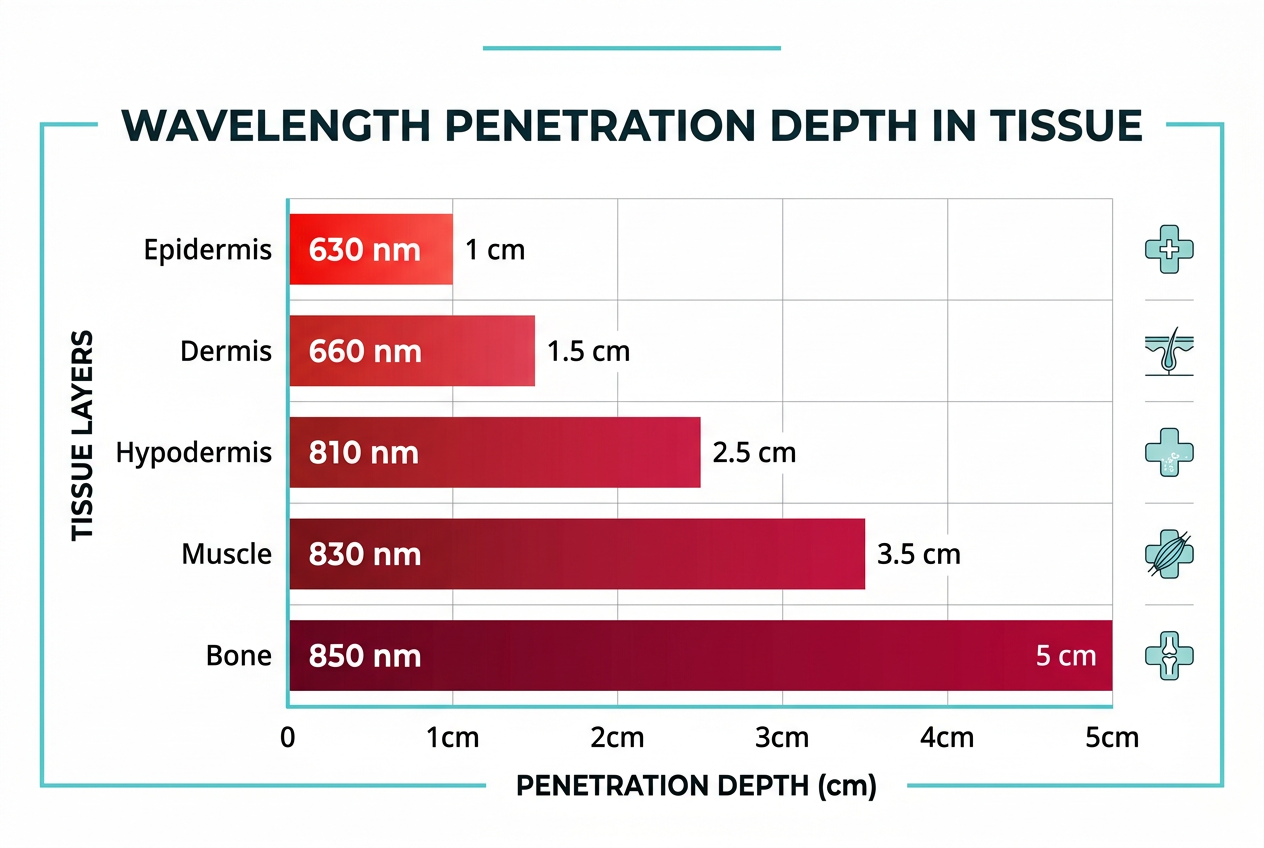
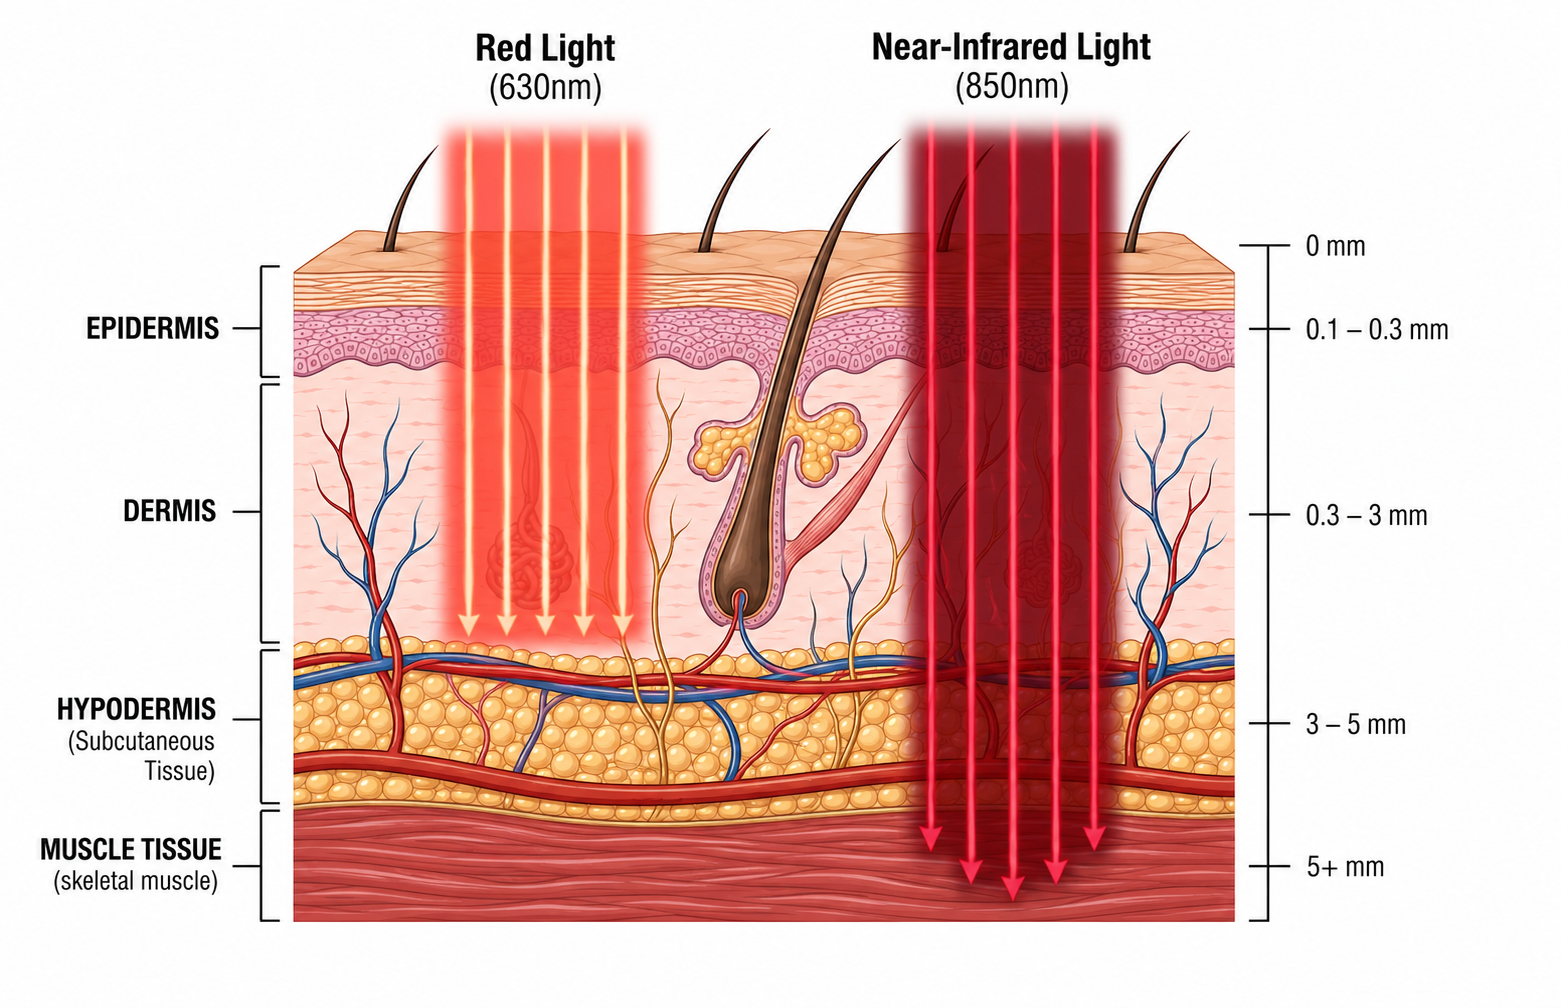
V21: Fix all image paths for GitHub Pages, copy assets to root, swap wavelength diagram

diff --git a/src/sections/HeroSection.tsx b/src/sections/HeroSection.tsx
@@ -1,5 +1,6 @@
 import { useEffect, useRef } from 'react';
 import { ChevronDown } from 'lucide-react';
+import heroImg from '/hero-red-led.jpg';
 
 const benefitPills = ['Anti-Aging', 'Pain Relief'];
 
@@ -48,7 +49,7 @@ export default function HeroSection() {
       id="hero"
       className="relative min-h-[100dvh] flex flex-col items-center justify-center overflow-hidden"
       style={{
-        backgroundImage: 'url(/hero-red-led.jpg)',
+        backgroundImage: `url(${heroImg})`,
         backgroundSize: 'cover',
         backgroundPosition: 'center',
         paddingTop: '100px',
@@ -70,7 +71,7 @@ export default function HeroSection() {
         {/* Logo */}
         <div className="hero-logo mb-6">
           <img
-            src="/zl-logo-hero.png"
+            src="./zl-logo-hero.png"
             alt="Zero Lines"
             className="h-20 sm:h-24 w-auto"
             style={{ filter: 'drop-shadow(0 0 24px rgba(255,255,255,0.2)) brightness(1.15)' }}
@@ -123,11 +124,11 @@ export default function HeroSection() {
           className="hero-trust mt-12 flex flex-wrap items-center justify-center gap-5 sm:gap-7 px-6 py-4 rounded-full"
           style={{ background: 'rgba(255, 255, 255, 0.06)', border: '1px solid rgba(255,255,255,0.1)' }}
         >
-          <img src="/badges/fda-cleared.png" alt="FDA" className="h-8 sm:h-10 w-auto opacity-70" />
-          <img src="/badges/nasa-logo.png" alt="NASA" className="h-8 sm:h-10 w-auto opacity-70" />
-          <img src="/badges/nobel-medal.png" alt="Nobel" className="h-8 sm:h-10 w-auto opacity-70" />
-          <img src="/badges/patented-approved.png" alt="Patented" className="h-8 sm:h-10 w-auto opacity-70" />
-          <img src="/badges/clinically-tested.png" alt="Clinically Tested" className="h-8 sm:h-10 w-auto opacity-70" />
+          <img src="./badges/fda-cleared.png" alt="FDA" className="h-8 sm:h-10 w-auto opacity-70" />
+          <img src="./badges/nasa-logo.png" alt="NASA" className="h-8 sm:h-10 w-auto opacity-70" />
+          <img src="./badges/nobel-medal.png" alt="Nobel" className="h-8 sm:h-10 w-auto opacity-70" />
+          <img src="./badges/patented-approved.png" alt="Patented" className="h-8 sm:h-10 w-auto opacity-70" />
+          <img src="./badges/clinically-tested.png" alt="Clinically Tested" className="h-8 sm:h-10 w-auto opacity-70" />
         </div>
 
         {/* Scroll indicator */}

diff --git a/index.html b/index.html
@@ -4,21 +4,13 @@
     <meta charset="UTF-8" />
     <meta name="viewport" content="width=device-width, initial-scale=1.0" />
     <title>Zero Lines — LED Light Therapy Science</title>
-    <script type="module" crossorigin src="./dist/assets/index-49GDp91M.js"></script>
+    <script type="module" crossorigin src="./dist/assets/index-t23lzatK.js"></script>
     <link rel="stylesheet" crossorigin href="./dist/assets/index-DXcwN8vf.css">
   <style>
-    /* FAQ mobile padding: ensure visible space on left/right edges */
     @media (max-width: 639px) {
-      #faq .max-w-\[760px\] {
-        padding-left: 24px !important;
-        padding-right: 24px !important;
-      }
+      #faq .max-w-\[760px\] { padding-left: 24px !important; padding-right: 24px !important; }
     }
-    /* Safety: hide any cost section that appears outside correct position */
-    footer ~ #cost-comparison,
-    footer ~ div[id*="cost"] {
-      display: none !important;
-    }
+    footer ~ #cost-comparison, footer ~ div[id*="cost"] { display: none !important; }
   </style>
   </head>
   <body>

diff --git a/src/sections/ScienceCredentialsSection.tsx b/src/sections/ScienceCredentialsSection.tsx
@@ -98,7 +98,7 @@ export default function ScienceCredentialsSection() {
           <div className="flex lg:grid lg:grid-cols-3 gap-8 overflow-x-auto snap-x snap-mandatory pb-6 lg:pb-0 px-5 lg:px-0 scrollbar-hide">
             {/* NASA Column */}
             <div className="flex-shrink-0 w-[310px] lg:w-auto snap-center text-center p-10 rounded-3xl border border-white/10 bg-white/[0.03] flex flex-col">
-              <img src="/badges/nasa-logo.png" alt="NASA" className="h-20 w-auto mx-auto" />
+              <img src="./badges/nasa-logo.png" alt="NASA" className="h-20 w-auto mx-auto" />
               <h3 className="text-xl font-semibold text-white mt-6">Born from Space</h3>
               <p className="text-sm text-white/40 mt-3 leading-relaxed flex-grow">
                 NASA funded LED research in 1995 to heal astronaut wounds in space.
@@ -127,7 +127,7 @@ export default function ScienceCredentialsSection() {
 
             {/* Nobel Column */}
             <div className="flex-shrink-0 w-[310px] lg:w-auto snap-center text-center p-10 rounded-3xl border border-white/10 bg-white/[0.03] flex flex-col">
-              <img src="/badges/nobel-medal.png" alt="Nobel Prize" className="h-24 w-auto mx-auto" />
+              <img src="./badges/nobel-medal.png" alt="Nobel Prize" className="h-24 w-auto mx-auto" />
               <h3 className="text-xl font-semibold text-white mt-6">Nobel Science</h3>
               <p className="text-sm text-white/40 mt-3 leading-relaxed flex-grow">
                 The Nobel Prize discovery of nitric oxide — the molecule LED therapy triggers.
@@ -148,7 +148,7 @@ export default function ScienceCredentialsSection() {
 
             {/* FDA Column */}
             <div className="flex-shrink-0 w-[310px] lg:w-auto snap-center text-center p-10 rounded-3xl border border-white/10 bg-white/[0.03] flex flex-col">
-              <img src="/badges/fda-cleared.png" alt="FDA Cleared" className="h-20 w-auto mx-auto" />
+              <img src="./badges/fda-cleared.png" alt="FDA Cleared" className="h-20 w-auto mx-auto" />
               <h3 className="text-xl font-semibold text-white mt-6">FDA Cleared</h3>
               <p className="text-sm text-white/40 mt-3 leading-relaxed flex-grow">
                 Officially classified as a Class 2 Medical Device — reviewed for safety and efficacy.
@@ -166,9 +166,9 @@ export default function ScienceCredentialsSection() {
                 Learn More <ChevronDown className="w-3.5 h-3.5" />
               </button>
               <div className="flex items-center justify-center gap-3 mt-3">
-                <img src="/badges/patented-approved.png" alt="Patented" className="h-10 w-auto opacity-60" />
-                <img src="/badges/clinically-tested.png" alt="Clinically Tested" className="h-10 w-auto opacity-60" />
-                <img src="/badges/ukas-quality.png" alt="UKAS" className="h-10 w-auto opacity-60" />
+                <img src="./badges/patented-approved.png" alt="Patented" className="h-10 w-auto opacity-60" />
+                <img src="./badges/clinically-tested.png" alt="Clinically Tested" className="h-10 w-auto opacity-60" />
+                <img src="./badges/ukas-quality.png" alt="UKAS" className="h-10 w-auto opacity-60" />
               </div>
             </div>
           </div>

diff --git a/src/components/Navbar.tsx b/src/components/Navbar.tsx
@@ -63,7 +63,7 @@ export default function Navbar() {
             }}
           >
             <img
-              src="/zl-logo-nav.png"
+              src="./zl-logo-nav.png"
               alt="Zero Lines"
               className="h-8 w-auto"
             />
@@ -112,7 +112,7 @@ export default function Navbar() {
         >
           {/* Close button */}
           <div className="flex items-center justify-between h-16 px-6">
-            <img src="/zl-logo-hero.png" alt="Zero Lines" className="h-8 w-auto" />
+            <img src="./zl-logo-hero.png" alt="Zero Lines" className="h-8 w-auto" />
             <button
               onClick={() => setMobileOpen(false)}
               className="p-2 -mr-2"
@@ -143,9 +143,9 @@ export default function Navbar() {
           {/* Bottom trust badges */}
           <div className="absolute bottom-8 left-0 right-0 px-8">
             <div className="flex items-center justify-center gap-4 opacity-50">
-              <img src="/badges/fda-cleared.png" alt="FDA" className="h-8 w-auto" />
-              <img src="/badges/nasa-logo.png" alt="NASA" className="h-8 w-auto" />
-              <img src="/badges/nobel-medal.png" alt="Nobel" className="h-8 w-auto" />
+              <img src="./badges/fda-cleared.png" alt="FDA" className="h-8 w-auto" />
+              <img src="./badges/nasa-logo.png" alt="NASA" className="h-8 w-auto" />
+              <img src="./badges/nobel-medal.png" alt="Nobel" className="h-8 w-auto" />
             </div>
           </div>
         </div>

diff --git a/src/sections/CompetitiveFramingSection.tsx b/src/sections/CompetitiveFramingSection.tsx
@@ -86,10 +86,10 @@ export default function CompetitiveFramingSection() {
             Not all LED devices are created equal. Here's what separates medical-grade from consumer-grade.
           </p>
           <div className="reveal flex items-center justify-center gap-4 mt-6">
-            <img src="/badges/fda-cleared.png" alt="FDA Cleared" className="h-12 w-auto opacity-80" />
-            <img src="/badges/patented-approved.png" alt="Patented" className="h-12 w-auto opacity-80" />
-            <img src="/badges/clinically-tested.png" alt="Clinically Tested" className="h-12 w-auto opacity-80" />
-            <img src="/badges/dermatologist-recommended.png" alt="Dermatologist Recommended" className="h-12 w-auto opacity-80" />
+            <img src="./badges/fda-cleared.png" alt="FDA Cleared" className="h-12 w-auto opacity-80" />
+            <img src="./badges/patented-approved.png" alt="Patented" className="h-12 w-auto opacity-80" />
+            <img src="./badges/clinically-tested.png" alt="Clinically Tested" className="h-12 w-auto opacity-80" />
+            <img src="./badges/dermatologist-recommended.png" alt="Dermatologist Recommended" className="h-12 w-auto opacity-80" />
           </div>
         </div>
 

diff --git a/src/sections/FDAMedicalDeviceSection.tsx b/src/sections/FDAMedicalDeviceSection.tsx
@@ -56,10 +56,10 @@ export default function FDAMedicalDeviceSection() {
 
         {/* Certification Badges Row */}
         <div className="reveal flex flex-wrap items-center justify-center gap-6 sm:gap-8 mt-8">
-          <img src="/badges/fda-cleared.png" alt="FDA Cleared" className="h-20 w-auto" />
-          <img src="/badges/patented-approved.png" alt="Patented" className="h-16 w-auto" />
-          <img src="/badges/clinically-tested.png" alt="Clinically Tested" className="h-16 w-auto" />
-          <img src="/badges/ukas-quality.png" alt="UKAS Quality" className="h-16 w-auto" />
+          <img src="./badges/fda-cleared.png" alt="FDA Cleared" className="h-20 w-auto" />
+          <img src="./badges/patented-approved.png" alt="Patented" className="h-16 w-auto" />
+          <img src="./badges/clinically-tested.png" alt="Clinically Tested" className="h-16 w-auto" />
+          <img src="./badges/ukas-quality.png" alt="UKAS Quality" className="h-16 w-auto" />
         </div>
 
         {/* Feature Cards - Mobile: horizontal scroll */}

diff --git a/src/sections/HowItWorksSection.tsx b/src/sections/HowItWorksSection.tsx
@@ -75,8 +75,8 @@ export default function HowItWorksSection() {
 
           {/* Badges - FDA + Clinically Tested */}
           <div className="reveal flex items-center justify-center gap-4 mt-6">
-            <img src="/badges/fda-cleared.png" alt="FDA Cleared" className="h-14 w-auto opacity-80" />
-            <img src="/badges/clinically-tested.png" alt="Clinically Tested" className="h-14 w-auto opacity-80" />
+            <img src="./badges/fda-cleared.png" alt="FDA Cleared" className="h-14 w-auto opacity-80" />
+            <img src="./badges/clinically-tested.png" alt="Clinically Tested" className="h-14 w-auto opacity-80" />
           </div>
         </div>
 
@@ -84,7 +84,7 @@ export default function HowItWorksSection() {
         <div className="reveal">
           <div className="bg-[#FAFAFA] rounded-[28px] p-6 sm:p-10 overflow-hidden shadow-[0_4px_24px_rgba(0,0,0,0.04)]">
             <img
-              src="/skin-cross-section.png"
+              src="./skin-cross-section.png"
               alt="Skin cross-section showing light penetration"
               className="w-full h-auto rounded-xl"
             />
@@ -122,7 +122,7 @@ export default function HowItWorksSection() {
         <div className="reveal mt-12">
           <div className="bg-[#FAFAFA] rounded-[28px] p-6 sm:p-10 overflow-hidden shadow-[0_4px_24px_rgba(0,0,0,0.04)]">
             <img
-              src="/skin-before-after.png"
+              src="./skin-before-after.png"
               alt="Skin before and after LED treatment"
               className="w-full h-auto rounded-xl"
             />

diff --git a/src/sections/FDADetailSection.tsx b/src/sections/FDADetailSection.tsx
@@ -111,9 +111,9 @@ export default function FDADetailSection() {
                 To earn Class 2 status, a device must meet all of these requirements. Zero Lines checks every box.
               </p>
               <div className="flex items-center justify-center lg:justify-start gap-4 mt-6">
-                <img src="/badges/fda-cleared.png" alt="FDA Cleared" className="h-14 sm:h-16 w-auto" />
-                <img src="/badges/patented-approved.png" alt="Patented" className="h-11 sm:h-12 w-auto opacity-70" />
-                <img src="/badges/clinically-tested.png" alt="Clinically Tested" className="h-11 sm:h-12 w-auto opacity-70" />
+                <img src="./badges/fda-cleared.png" alt="FDA Cleared" className="h-14 sm:h-16 w-auto" />
+                <img src="./badges/patented-approved.png" alt="Patented" className="h-11 sm:h-12 w-auto opacity-70" />
+                <img src="./badges/clinically-tested.png" alt="Clinically Tested" className="h-11 sm:h-12 w-auto opacity-70" />
               </div>
             </div>
             <div className="lg:w-1/2">

diff --git a/src/sections/ModernSkinSection.tsx b/src/sections/ModernSkinSection.tsx
@@ -105,7 +105,7 @@ export default function ModernSkinSection() {
 
           {/* Badge */}
           <div className="reveal flex items-center justify-center mt-6">
-            <img src="/badges/dermatologist-recommended.png" alt="Dermatologist Recommended" className="h-16 w-auto" />
+            <img src="./badges/dermatologist-recommended.png" alt="Dermatologist Recommended" className="h-16 w-auto" />
           </div>
         </div>
 
@@ -150,7 +150,7 @@ export default function ModernSkinSection() {
               </span>
             </div>
             <img
-              src="/face-antiaging-diagram.png"
+              src="./face-antiaging-diagram.png"
               alt="Face treatment areas — forehead, cheeks, jawline, neck"
               className="w-full h-auto rounded-2xl"
             />

diff --git a/src/sections/PainBenefitsSection.tsx b/src/sections/PainBenefitsSection.tsx
@@ -184,7 +184,7 @@ export default function PainBenefitsSection() {
           </h3>
           <div className="bg-[#FAFAFA] rounded-3xl p-6 sm:p-8 border border-[#E5E7EB]/60">
             <img
-              src="/body-pain-diagram.png"
+              src="./body-pain-diagram.png"
               alt="Body treatment areas for LED pain relief therapy"
               className="w-full max-w-[800px] mx-auto h-auto rounded-xl"
             />
@@ -230,7 +230,7 @@ export default function PainBenefitsSection() {
         {/* Deep Tissue Callout */}
         <div className="reveal grid md:grid-cols-[40%_60%] gap-8 items-center mt-14">
           <img
-            src="/team-sports.png"
+            src="./team-sports.png"
             alt="Professional athletes using LED therapy"
             className="w-full h-auto rounded-[20px] object-cover"
           />

diff --git a/src/components/Footer.tsx b/src/components/Footer.tsx
@@ -30,7 +30,7 @@ export default function Footer() {
       <div className="max-w-[1100px] mx-auto px-6 sm:px-12 lg:px-16 flex flex-col items-center text-center">
         {/* Logo - inverted to white for dark footer */}
         <img
-          src="/zl-logo-nav.png"
+          src="./zl-logo-nav.png"
           alt="Zero Lines"
           className="h-7 w-auto brightness-0 invert"
         />

diff --git a/src/sections/BodySection.tsx b/src/sections/BodySection.tsx
@@ -74,7 +74,7 @@ export default function BodySection() {
         {/* Device Image */}
         <div className="reveal mt-12 text-center">
           <img
-            src="/clinical-device.png"
+            src="./clinical-device.png"
             alt="Full-body LED therapy panel for body contouring"
             className="w-full max-w-[600px] mx-auto h-auto rounded-3xl shadow-lg"
           />